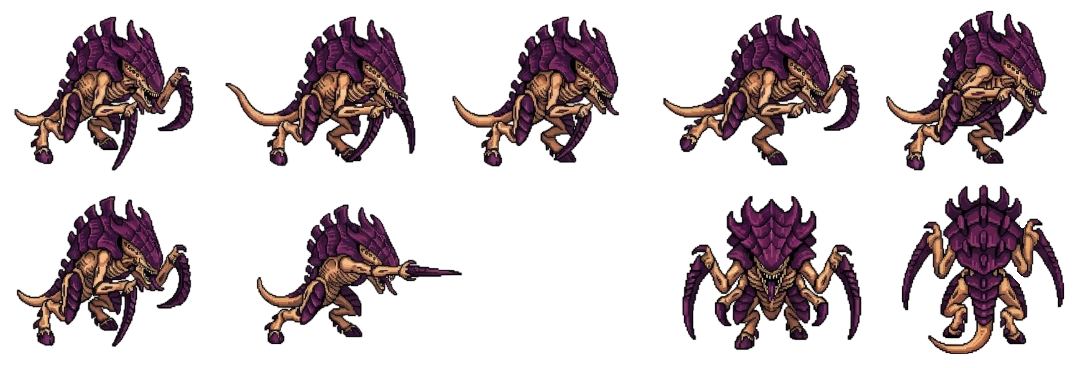
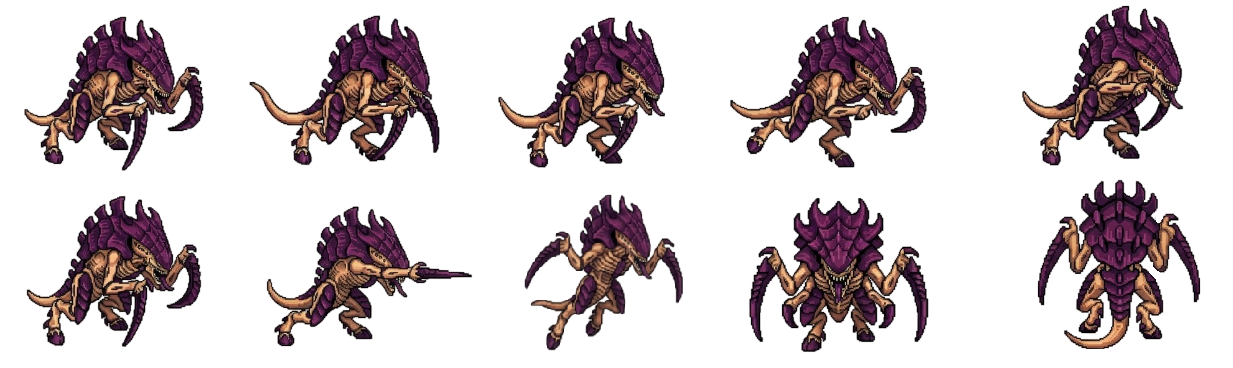
añadido hechizo salto acechante tergamant

diff --git a/ARCHON_WARHAMMER 40K/src/ClaseKnight.cpp b/ARCHON_WARHAMMER 40K/src/ClaseKnight.cpp
@@ -68,12 +68,22 @@ ClaseKnight::ClaseKnight(Bando b, sf::Vector2i pos, std::string tipo)
     }
 }
 
-//ENLACE DE FÍSICAS Y ANIMACIÓN
 void ClaseKnight::procesarMovimientoArena(sf::Vector2f direccion, float dt, Arena& arena) {
-    //Dejamos que la clase padre (PiezaTerrestre) mueva las coordenadas físicas
+    // Actualizamos la lógica de tiempo del salto primero
+    actualizarSalto(dt);
+
+    // Si el Termagant está saltando, bloqueamos el movimiento terrestre físico
+    // Esto impide que el movimiento normal interfiera con la trayectoria del salto
+    if (estaSaltando) {
+        // Aún llamamos a animar para que mantenga el sprite de "salto" activo
+        this->animar(dt, direccion);
+        return;
+    }
+
+    // Si NO está saltando, dejamos que la clase padre maneje el movimiento normal
     PiezaTerrestre::procesarMovimientoArena(direccion, dt, arena);
 
-    //Actualizamos la imagen visible con nuestra máquina de estados
+    // Actualizamos la animación normal (caminar/quieto/atacar)
     if (this->stats.nombre == "INTERCESSOR" || this->stats.nombre == "TERMAGANT") {
         animar(dt, direccion);
     }
@@ -92,6 +102,12 @@ void ClaseKnight::animar(float dt, sf::Vector2f direccion) {
         fila = 1;
         colInicial = 0;
         colFinal = 1;
+    }
+    else if (estaSaltando) {
+        //FOTOGRAMA DE ATAQUE 
+        fila = 1;
+        colInicial = 2;
+        colFinal = 2;
     }
     else if (direccion.x != 0) {
         //FOTOGRAMA DE CAMINAR LATERAL 
@@ -210,23 +226,75 @@ void ClaseKnight::dibujar(sf::RenderWindow& window, Estado estadoActual) {
 
 
 void ClaseKnight::usarHechizo(std::vector<Hitbox>& hitboxes, Pieza* enemigo) {
-    sf::Vector2f dirAtaque = this->getultimadireccion();
-    float magnitud = std::hypot(dirAtaque.x, dirAtaque.y);
-    dirAtaque = (magnitud != 0) ? (dirAtaque / magnitud) : sf::Vector2f(1.f, 0.f);
+    if (!enemigo) return;
 
-    sf::Vector2f puntoSpawn = this->posicionAbsoluta + (dirAtaque * 35.f);
+    // LÓGICA PARA INTERCESSOR (Granada)
+    if (this->stats.nombre == "INTERCESSOR") {
+        sf::Vector2f dirAtaque = this->getultimadireccion();
+        float magnitud = std::hypot(dirAtaque.x, dirAtaque.y);
+        dirAtaque = (magnitud != 0) ? (dirAtaque / magnitud) : sf::Vector2f(1.f, 0.f);
 
-    double rapidez = 400.0;
-    double danoBase = 10.0;
-    double tiempoDeVidaTotal = 2.5;
-    double radioProyectil = 10.0;
-    double radioDeLaExplosion = 120.0;
-    hitboxes.emplace_back(
-        puntoSpawn, dirAtaque, rapidez, sf::Color(100, 100, 100), this,
-        (danoBase * this->multiplicadorArena), tiempoDeVidaTotal, radioProyectil,
-        false, false, false, 0.0,
-        true, radioDeLaExplosion
-    );
+        sf::Vector2f puntoSpawn = this->posicionAbsoluta + (dirAtaque * 35.f);
 
-    std::cout << this->stats.nombre << " ha lanzado una Granada de Fragmentacion!" << std::endl;
+        hitboxes.emplace_back(
+            puntoSpawn, dirAtaque, 400.0, sf::Color(100, 100, 100), this,
+            (10.0 * this->multiplicadorArena), 2.5, 10.0,
+            false, false, false, 0.0, true, 120.0
+        );
+        std::cout << "Intercessor ha lanzado una Granada de Fragmentación!" << std::endl;
+    }
+
+    // LÓGICA PARA TERMAGANT (Salto Acechante)
+    else if (this->stats.nombre == "TERMAGANT") {
+        // Solo iniciamos si no estamos saltando ya
+        if (estaSaltando) return;
+
+        sf::Vector2f posEnemigo = enemigo->getPosicionAbsoluta();
+        sf::Vector2f miPos = this->posicionAbsoluta;
+        sf::Vector2f dir = posEnemigo - miPos;
+        float dist = std::hypot(dir.x, dir.y);
+
+        if (dist > 50.f) {
+            // Normalizar dirección
+            if (dist != 0) dir /= dist;
+
+            // Guardamos los puntos para la trayectoria
+            posInicioSalto = miPos;
+            posDestinoSalto = posEnemigo - (dir * 40.f);
+
+            // Reseteamos el reloj del salto al inicio (0.0f)
+            tiempoSalto = 0.0f;
+            estaSaltando = true;
+
+            std::cout << "Termagant inicia salto acechante!" << std::endl;
+        }
+    }
+}
+void ClaseKnight::actualizarSalto(float dt) {
+    if (!estaSaltando) return;
+
+    tiempoSalto += dt;
+
+    // Calculamos el progreso (de 0.0 a 1.0)
+    float progreso = tiempoSalto / duracionTotalSalto;
+
+    // Si llega al final, aterrizaje forzoso
+    if (progreso >= 1.0f) {
+        this->posicionAbsoluta = posDestinoSalto;
+        estaSaltando = false;
+        tiempoSalto = 0.0f;
+    }
+    else {
+        // Movimiento lineal X/Y (la base del salto)
+        sf::Vector2f nuevaPos = posInicioSalto + (posDestinoSalto - posInicioSalto) * progreso;
+
+        // EL TRUCO: La parábola siempre debe ir de 0 a PI (180 grados)
+        // sin importar cuánto dure el tiempo.
+        // Al usar 'progreso * 3.14159f', garantizamos que el seno haga 
+        // una curva completa de 0 a 180 grados en cualquier duración.
+        float alturaMaxima = 150.0f; // Ajusta esto para que sea más alto o bajo
+        float altura = -alturaMaxima * sin(progreso * 3.14159f);
+
+        this->posicionAbsoluta = nuevaPos + sf::Vector2f(0.0f, altura);
+    }
 }

diff --git a/ARCHON_WARHAMMER 40K/src/ClaseKnight.h b/ARCHON_WARHAMMER 40K/src/ClaseKnight.h
@@ -22,6 +22,12 @@ private:
 
 public:
 
+    bool estaSaltando = false;
+    float tiempoSalto = 0.0f;
+    float duracionTotalSalto = 0.8f;
+    sf::Vector2f posInicioSalto;
+    sf::Vector2f posDestinoSalto;
+
     ClaseKnight(Bando b, sf::Vector2i pos, std::string tipo);
 
     Pieza* clonar() const override {
@@ -47,4 +53,5 @@ public:
         sf::Vector2f escalaActual = spriteArena.getScale();
         spriteArena.setScale(escalaActual.x * porcentaje, escalaActual.y * porcentaje);
     }
+    void actualizarSalto(float dt); //Funcion que gestiona el salto del hechizo del termgant
 };
